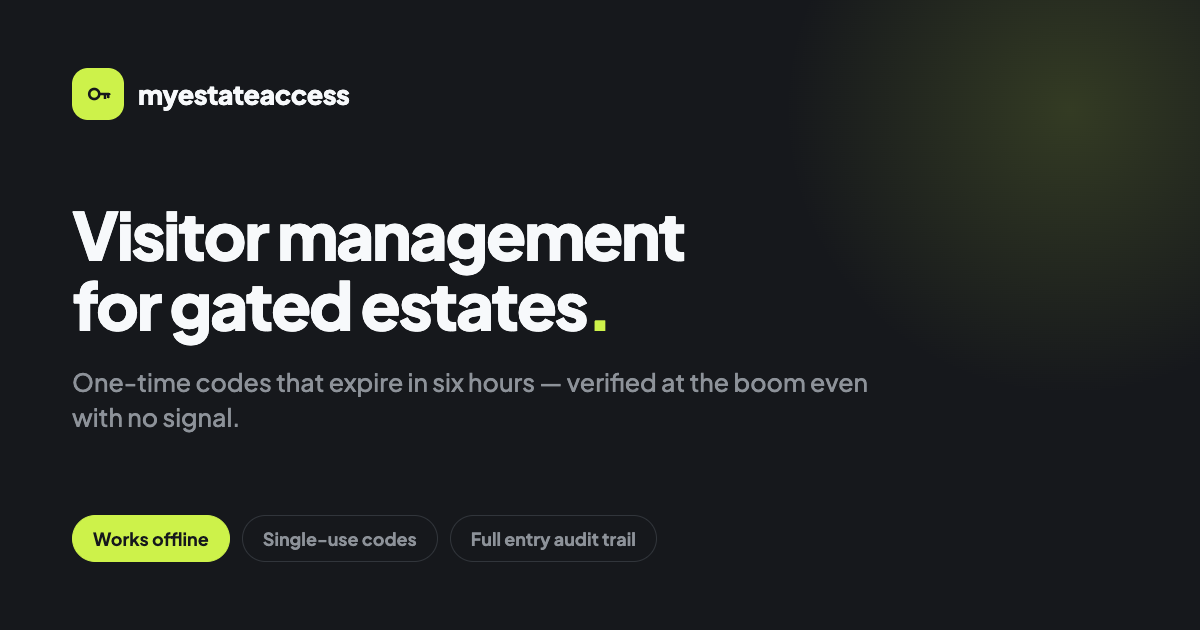
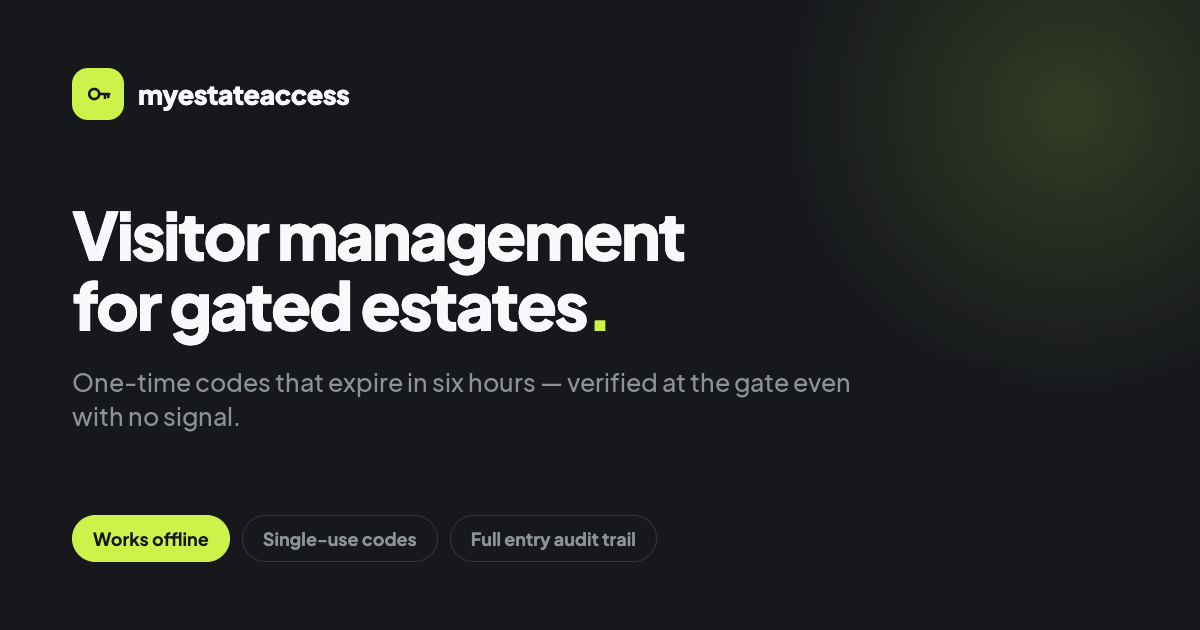
fix: the site says it is built for Nigerian estates, not South African
The marketing copy, structured data and llms.txt named South Africa:
the hero eyebrow, meta and og descriptions, areaServed, ZAR pricing and
the footer on every page. They now say Nigeria (NGN, en-NG), and the
South African 'boom' is the gate throughout, including the share image.
HOA committees and managing agents become residents' association excos
and facility managers. The privacy policy's legal basis (POPIA, the
Information Regulator, PSIRA) is unchanged: that needs a legal decision.

Changed region(s): [[0.0617, 0.6032, 0.4317, 0.6937], [0.4933, 0.6032, 0.74, 0.6333]]

diff --git a/apps/site/index.html b/apps/site/index.html
@@ -1,21 +1,21 @@
 <!doctype html>
-<html lang="en-ZA">
+<html lang="en-NG">
 <head>
 <meta charset="utf-8">
 <meta name="viewport" content="width=device-width, initial-scale=1">
 
 <title>Visitor Management System for Gated Estates | myestateaccess</title>
-<meta name="description" content="Visitor management for gated estates in South Africa. Residents issue one-time codes that expire in six hours; guards verify them at the boom, offline.">
+<meta name="description" content="Visitor management for gated estates in Nigeria. Residents issue one-time codes that expire in six hours; guards verify them at the gate, offline.">
 <link rel="canonical" href="https://myestateaccess.com/">
 <meta name="robots" content="index, follow, max-image-preview:large, max-snippet:-1, max-video-preview:-1">
 <meta name="theme-color" content="#16181c">
 
 <meta property="og:type" content="website">
-<meta property="og:locale" content="en_ZA">
+<meta property="og:locale" content="en_NG">
   <meta property="og:site_name" content="myestateaccess">
 <meta property="og:url" content="https://myestateaccess.com/">
 <meta property="og:title" content="Visitor Management System for Gated Estates | myestateaccess">
-<meta property="og:description" content="One-time visitor codes that expire in six hours and work at the gate even when the network does not. Built for residential estates, complexes and gated communities.">
+<meta property="og:description" content="One-time visitor codes that expire in six hours and work at the gate even when the network does not. Built for residential estates and gated communities across Nigeria.">
 <meta property="og:image" content="https://myestateaccess.com/og.png">
 <meta property="og:image:alt" content="myestateaccess — visitor management for gated estates, with one-time codes that expire in six hours.">
   <meta property="og:image:type" content="image/png">
@@ -61,7 +61,7 @@
         "name": "myestateaccess",
         "url": "https://myestateaccess.com/",
         "logo": "https://myestateaccess.com/favicon.svg",
-        "description": "Visitor management software for gated and security estates in South Africa.",
+        "description": "Visitor management software for gated residential estates in Nigeria.",
         "contactPoint": {
           "@type": "ContactPoint",
           "contactType": "sales",
@@ -70,9 +70,9 @@
         },
         "areaServed": {
           "@type": "Country",
-          "name": "South Africa"
+          "name": "Nigeria"
         },
-        "knowsLanguage": "en-ZA"
+        "knowsLanguage": "en-NG"
       },
       {
         "@type": "WebSite",
@@ -83,7 +83,7 @@
         "publisher": {
           "@id": "https://myestateaccess.com/#org"
         },
-        "inLanguage": "en-ZA"
+        "inLanguage": "en-NG"
       },
       {
         "@type": "SoftwareApplication",
@@ -111,7 +111,7 @@
         ],
         "offers": {
           "@type": "Offer",
-          "priceCurrency": "ZAR",
+          "priceCurrency": "NGN",
           "availability": "https://schema.org/InStock",
           "url": "https://myestateaccess.com/contact",
           "description": "Priced per home, scaled to the size of the estate. Quoted after a demo."
@@ -119,7 +119,7 @@
         "isPartOf": {
           "@id": "https://myestateaccess.com/#website"
         },
-        "inLanguage": "en-ZA"
+        "inLanguage": "en-NG"
       },
       {
         "@type": "FAQPage",
@@ -215,9 +215,9 @@
   <section class="hero">
     <div class="wrap hero-grid">
       <div>
-        <p class="eyebrow">Visitor management for gated estates in South Africa</p>
+        <p class="eyebrow">Visitor management for gated estates in Nigeria</p>
         <h1>The gate book, replaced by a code that expires.</h1>
-        <p class="lede">Residents generate a one-time code and forward it to their visitor. The guard verifies it at the boom in seconds — even with no signal. Every entry is recorded, so the estate finally has an access trail worth reading.</p>
+        <p class="lede">Residents generate a one-time code and forward it to their visitor. The guard verifies it at the gate in seconds — even with no signal. Every entry is recorded, so the estate finally has an access trail worth reading.</p>
         <div class="btn-row">
           <a class="btn btn-primary" href="/contact#demo">Book a demo</a>
           <a class="btn btn-ghost" href="#how">See how it works</a>
@@ -246,7 +246,7 @@
                      https://images.unsplash.com/photo-1775112077888-8fa36e9bbc51?auto=format&fit=crop&w=1600&q=70 1600w"
              sizes="(max-width: 940px) 100vw, 46vw"
              width="1100" height="935" fetchpriority="high"
-             alt="The entrance to a gated residential community, with a security booth beside the boom.">
+             alt="The entrance to a gated residential community, with a security booth beside the barrier.">
         <div class="badge-float">
           <span class="code">D7DH77</span>
           <span class="meta">Expires in 5h 42m · one use</span>
@@ -258,13 +258,13 @@
   <!-- ── problem ──────────────────────────────────────────────── -->
   <section class="tight">
     <div class="wrap">
-      <h2>A paper book at the boom is not access control.</h2>
+      <h2>A paper book at the gate is not access control.</h2>
       <p class="lede" style="margin-top:16px">It is a queue, an illegible name and a phone number nobody will ever call. When something goes wrong at three in the morning, the estate has a page of handwriting and no way to tell who actually came through.</p>
       <div class="grid grid-3" style="margin-top:36px">
         <div class="card">
           <div class="card-icon" aria-hidden="true">01</div>
           <h3>Nobody verifies the name</h3>
-          <p>A visitor writes anything they like. There is no link between the person at the boom and the resident they claim to be visiting.</p>
+          <p>A visitor writes anything they like. There is no link between the person at the gate and the resident they claim to be visiting.</p>
         </div>
         <div class="card">
           <div class="card-icon" aria-hidden="true">02</div>
@@ -292,7 +292,7 @@
         </div>
         <div class="step">
           <h3>The visitor arrives</h3>
-          <p>They give the code at the boom. Nothing to install, no account, no app. The code is the whole interaction.</p>
+          <p>They give the code at the gate. Nothing to install, no account, no app. The code is the whole interaction.</p>
         </div>
         <div class="step">
           <h3>The guard verifies</h3>
@@ -464,7 +464,7 @@
           </span>
           <span class="brand-word">myestateaccess</span>
         </a>
-        <p>Visitor management for gated and security estates across South Africa. One-time codes that expire, verified at the boom whether or not the network is up.</p>
+        <p>Visitor management for gated estates across Nigeria. One-time codes that expire, verified at the gate whether or not the network is up.</p>
         <div class="store-badges">
           <a class="play-badge" href="https://play.google.com/store/apps/details?id=com.myestateaccess.resident&amp;pcampaignid=pcampaignidMKT-Other-global-all-co-prtnr-py-PartBadge-Mar2515-1" target="_blank" rel="noopener">
             <img src="/play-badge.png" alt="Get it on Google Play" width="150" height="58" loading="lazy" decoding="async">

diff --git a/apps/site/contact.html b/apps/site/contact.html
@@ -1,5 +1,5 @@
 <!doctype html>
-<html lang="en-ZA">
+<html lang="en-NG">
 <head>
 <meta charset="utf-8">
 <meta name="viewport" content="width=device-width, initial-scale=1">
@@ -11,7 +11,7 @@
 <meta name="theme-color" content="#16181c">
 
 <meta property="og:type" content="website">
-<meta property="og:locale" content="en_ZA">
+<meta property="og:locale" content="en_NG">
   <meta property="og:site_name" content="myestateaccess">
 <meta property="og:url" content="https://myestateaccess.com/contact">
 <meta property="og:title" content="Book a Demo — Estate Visitor Management | myestateaccess">
@@ -46,7 +46,7 @@
         "isPartOf": {
           "@id": "https://myestateaccess.com/#website"
         },
-        "inLanguage": "en-ZA"
+        "inLanguage": "en-NG"
       },
       {
         "@type": "Organization",
@@ -101,7 +101,7 @@
             "name": "Do our guards need new hardware?",
             "acceptedAnswer": {
               "@type": "Answer",
-              "text": "No. The guard app runs on an ordinary Android or iOS phone. Most estates use a single handset per shift, which suits the way a boom is actually staffed."
+              "text": "No. The guard app runs on an ordinary Android or iOS phone. Most estates use a single handset per shift, which suits the way a gate is actually staffed."
             }
           },
           {
@@ -164,12 +164,12 @@
       <div>
         <p class="eyebrow">Contact</p>
         <h1>Let's look at your gate.</h1>
-        <p class="lede">Tell us roughly how many homes you have and how the boom is staffed. A demo takes about twenty minutes: we set your estate up with a house and a guard phone, and you watch a code go out and come back in.</p>
+        <p class="lede">Tell us roughly how many homes you have and how the gate is staffed. A demo takes about twenty minutes: we set your estate up with a house and a guard phone, and you watch a code go out and come back in.</p>
 
         <div class="grid" style="margin-top:34px;gap:14px">
           <div class="card" style="padding:22px">
             <h2 class="h-sm" style="margin-bottom:6px">Sales and demos</h2>
-            <p style="margin-bottom:10px">For estates, managing agents and HOA committees.</p>
+            <p style="margin-bottom:10px">For estates, facility managers and residents' association excos.</p>
             <a class="btn btn-ghost" style="height:42px;padding:0 18px;font-size:14px" href="mailto:hello@myestateaccess.com?subject=Estate%20Access%20demo">hello@myestateaccess.com</a>
           </div>
           <div class="card" style="padding:22px">
@@ -217,7 +217,7 @@
           </div>
           <div class="field">
             <label for="message">What would you like to know? *</label>
-            <textarea id="message" name="message" required placeholder="How the boom is staffed, whether you have signal at the gate, anything you are unsure about."></textarea>
+            <textarea id="message" name="message" required placeholder="How the gate is staffed, whether you have signal there, anything you are unsure about."></textarea>
           </div>
 
           <p class="notice" id="form-note">
@@ -243,7 +243,7 @@
         </details>
         <details>
           <summary>Do our guards need new hardware?</summary>
-          <p>No. The guard app runs on an ordinary Android or iOS phone. Most estates use a single handset per shift, which suits the way a boom is actually staffed.</p>
+          <p>No. The guard app runs on an ordinary Android or iOS phone. Most estates use a single handset per shift, which suits the way a gate is actually staffed.</p>
         </details>
         <details>
           <summary>What does it cost?</summary>
@@ -260,7 +260,7 @@
   <section>
     <div class="wrap">
       <div class="cta">
-        <h2>Twenty minutes, at your boom.</h2>
+        <h2>Twenty minutes, at your gate.</h2>
         <p class="lede" style="max-width:52ch">We would rather show you a code being refused than talk you through a slide.</p>
         <div class="btn-row">
           <a class="btn btn-primary" href="mailto:hello@myestateaccess.com?subject=Estate%20Access%20demo">Email us directly</a>
@@ -325,7 +325,7 @@
           </span>
           <span class="brand-word">myestateaccess</span>
         </a>
-        <p>Visitor management for gated and security estates across South Africa. One-time codes that expire, verified at the boom whether or not the network is up.</p>
+        <p>Visitor management for gated estates across Nigeria. One-time codes that expire, verified at the gate whether or not the network is up.</p>
         <div class="store-badges">
           <a class="play-badge" href="https://play.google.com/store/apps/details?id=com.myestateaccess.resident&amp;pcampaignid=pcampaignidMKT-Other-global-all-co-prtnr-py-PartBadge-Mar2515-1" target="_blank" rel="noopener">
             <img src="/play-badge.png" alt="Get it on Google Play" width="150" height="58" loading="lazy" decoding="async">

diff --git a/apps/site/privacy.html b/apps/site/privacy.html
@@ -1,5 +1,5 @@
 <!doctype html>
-<html lang="en-ZA">
+<html lang="en-NG">
 <head>
 <meta charset="utf-8">
 <meta name="viewport" content="width=device-width, initial-scale=1">
@@ -11,7 +11,7 @@
 <meta name="theme-color" content="#16181c">
 
 <meta property="og:type" content="article">
-<meta property="og:locale" content="en_ZA">
+<meta property="og:locale" content="en_NG">
   <meta property="og:site_name" content="myestateaccess">
 <meta property="og:url" content="https://myestateaccess.com/privacy">
 <meta property="og:title" content="Privacy Policy | myestateaccess">
@@ -51,7 +51,7 @@
         "isPartOf": {
           "@id": "https://myestateaccess.com/#website"
         },
-        "inLanguage": "en-ZA"
+        "inLanguage": "en-NG"
       },
       {
         "@type": "BreadcrumbList",
@@ -144,7 +144,7 @@
 
         <h2 id="who">Who is responsible for your data</h2>
         <p>Two different relationships sit behind this platform, and which one applies changes who you should approach about your data.</p>
-        <p><strong>For an estate's own records</strong> — its residents, houses, guards, codes and gate log — the <strong>estate is the responsible party</strong> under the Protection of Personal Information Act 4 of 2013 (POPIA). The estate decides who lives there, who may be approved, and who guards the boom. We act as its <strong>operator</strong>: we hold and process that information on the estate's instructions and for no purpose of our own. If you are a resident or a guard, your first port of call is your estate's management.</p>
+        <p><strong>For an estate's own records</strong> — its residents, houses, guards, codes and gate log — the <strong>estate is the responsible party</strong> under the Protection of Personal Information Act 4 of 2013 (POPIA). The estate decides who lives there, who may be approved, and who guards the gate. We act as its <strong>operator</strong>: we hold and process that information on the estate's instructions and for no purpose of our own. If you are a resident or a guard, your first port of call is your estate's management.</p>
         <p><strong>For our own dealings with you</strong> — a demo request, a support email, an account you open with us directly — <strong>we are the responsible party</strong>, and this policy is the whole of it.</p>
         <p>Our details, and those of our Information Officer, are in <a href="#contact">section 15</a>.</p>
 
@@ -201,7 +201,7 @@
         </ul>
 
         <h2 id="visibility">Who can see what</h2>
-        <p>The most common question residents ask is what the guard at the boom can see about them. The answer is deliberately very little.</p>
+        <p>The most common question residents ask is what the guard at the gate can see about them. The answer is deliberately very little.</p>
         <div class="callout">A guard sees a code and whether it is valid. Your name and house number are not shown to a guard until you issue a code — and after that code is used or expires, that view goes with it.</div>
         <p>More completely:</p>
         <ul>
@@ -356,7 +356,7 @@
           </span>
           <span class="brand-word">myestateaccess</span>
         </a>
-        <p>Visitor management for gated and security estates across South Africa. One-time codes that expire, verified at the boom whether or not the network is up.</p>
+        <p>Visitor management for gated estates across Nigeria. One-time codes that expire, verified at the gate whether or not the network is up.</p>
         <div class="store-badges">
           <a class="play-badge" href="https://play.google.com/store/apps/details?id=com.myestateaccess.resident&amp;pcampaignid=pcampaignidMKT-Other-global-all-co-prtnr-py-PartBadge-Mar2515-1" target="_blank" rel="noopener">
             <img src="/play-badge.png" alt="Get it on Google Play" width="150" height="58" loading="lazy" decoding="async">

diff --git a/apps/site/about.html b/apps/site/about.html
@@ -1,5 +1,5 @@
 <!doctype html>
-<html lang="en-ZA">
+<html lang="en-NG">
 <head>
 <meta charset="utf-8">
 <meta name="viewport" content="width=device-width, initial-scale=1">
@@ -11,7 +11,7 @@
 <meta name="theme-color" content="#16181c">
 
 <meta property="og:type" content="article">
-<meta property="og:locale" content="en_ZA">
+<meta property="og:locale" content="en_NG">
   <meta property="og:site_name" content="myestateaccess">
 <meta property="og:url" content="https://myestateaccess.com/about">
 <meta property="og:title" content="Why We Rebuilt the Estate Gate Register | myestateaccess">
@@ -54,7 +54,7 @@
         "isPartOf": {
           "@id": "https://myestateaccess.com/#website"
         },
-        "inLanguage": "en-ZA"
+        "inLanguage": "en-NG"
       },
       {
         "@type": "BreadcrumbList",
@@ -123,7 +123,7 @@
              srcset="https://images.unsplash.com/photo-1751730618832-08bc4b3d27d4?auto=format&fit=crop&w=700&q=70 700w,
                      https://images.unsplash.com/photo-1751730618832-08bc4b3d27d4?auto=format&fit=crop&w=1100&q=70 1100w"
              sizes="(max-width: 940px) 100vw, 46vw" width="1100" height="935" fetchpriority="high"
-             alt="An aerial view of a leafy Johannesburg suburb, walled properties set among the trees.">
+             alt="An aerial view of a leafy suburb, walled properties set among the trees.">
       </figure>
     </div>
   </section>
@@ -180,7 +180,7 @@
       <div>
         <p class="eyebrow">Who it is for</p>
         <h2>Estates that outgrew the register but do not want a turnstile.</h2>
-        <p class="lede" style="margin-top:16px">Residential estates, security complexes, cluster developments and gated communities — anywhere with a manned boom, a few hundred homes, and a book that nobody reads.</p>
+        <p class="lede" style="margin-top:16px">Residential estates, gated communities, serviced terraces and private developments — anywhere with a manned gate, a few hundred homes, and a visitor book that nobody reads.</p>
         <p style="margin-top:18px;color:var(--muted)">We are deliberately not building number-plate recognition, biometrics or turnstiles. Those are expensive, they fail in ways a guard cannot work around, and they solve a problem most estates do not have. A code you can read down a phone line covers the overwhelming majority of visits.</p>
       </div>
       <img src="https://images.unsplash.com/photo-1762474293029-6a7f3698312c?auto=format&fit=crop&w=900&q=70"
@@ -216,7 +216,7 @@
           </span>
           <span class="brand-word">myestateaccess</span>
         </a>
-        <p>Visitor management for gated and security estates across South Africa. One-time codes that expire, verified at the boom whether or not the network is up.</p>
+        <p>Visitor management for gated estates across Nigeria. One-time codes that expire, verified at the gate whether or not the network is up.</p>
         <div class="store-badges">
           <a class="play-badge" href="https://play.google.com/store/apps/details?id=com.myestateaccess.resident&amp;pcampaignid=pcampaignidMKT-Other-global-all-co-prtnr-py-PartBadge-Mar2515-1" target="_blank" rel="noopener">
             <img src="/play-badge.png" alt="Get it on Google Play" width="150" height="58" loading="lazy" decoding="async">

diff --git a/apps/site/404.html b/apps/site/404.html
@@ -1,5 +1,5 @@
 <!doctype html>
-<html lang="en-ZA">
+<html lang="en-NG">
 <head>
 <meta charset="utf-8">
 <meta name="viewport" content="width=device-width, initial-scale=1">
@@ -64,7 +64,7 @@
       <div class="grid" style="margin-top:34px;gap:14px">
         <div class="card" style="padding:22px">
           <h2 class="h-sm" style="margin-bottom:6px">Looking at the product</h2>
-          <p style="margin-bottom:10px">How a visitor code goes from a resident's phone to the guard at the boom, and what happens when the gate has no signal.</p>
+          <p style="margin-bottom:10px">How a visitor code goes from a resident's phone to the guard at the gate, and what happens when there is no signal.</p>
           <a href="/">Visitor management for gated estates</a>
         </div>
         <div class="card" style="padding:22px">
@@ -92,7 +92,7 @@
           </span>
           <span class="brand-word">myestateaccess</span>
         </a>
-        <p>Visitor management for gated and security estates across South Africa. One-time codes that expire, verified at the boom whether or not the network is up.</p>
+        <p>Visitor management for gated estates across Nigeria. One-time codes that expire, verified at the gate whether or not the network is up.</p>
         <div class="store-badges">
           <a class="play-badge" href="https://play.google.com/store/apps/details?id=com.myestateaccess.resident&amp;pcampaignid=pcampaignidMKT-Other-global-all-co-prtnr-py-PartBadge-Mar2515-1" target="_blank" rel="noopener">
             <img src="/play-badge.png" alt="Get it on Google Play" width="150" height="58" loading="lazy" decoding="async">

diff --git a/apps/site/delete-account.html b/apps/site/delete-account.html
@@ -1,5 +1,5 @@
 <!doctype html>
-<html lang="en-ZA">
+<html lang="en-NG">
 <head>
 <meta charset="utf-8">
 <meta name="viewport" content="width=device-width, initial-scale=1">
@@ -11,7 +11,7 @@
 <meta name="theme-color" content="#16181c">
 
 <meta property="og:type" content="website">
-<meta property="og:locale" content="en_ZA">
+<meta property="og:locale" content="en_NG">
 <meta property="og:site_name" content="myestateaccess">
 <meta property="og:url" content="https://myestateaccess.com/delete-account">
 <meta property="og:title" content="Delete Your Account | myestateaccess">
@@ -51,7 +51,7 @@
         "isPartOf": {
           "@id": "https://myestateaccess.com/#website"
         },
-        "inLanguage": "en-ZA"
+        "inLanguage": "en-NG"
       },
       {
         "@type": "BreadcrumbList",
@@ -209,7 +209,7 @@
           </span>
           <span class="brand-word">myestateaccess</span>
         </a>
-        <p>Visitor management for gated and security estates across South Africa. One-time codes that expire, verified at the boom whether or not the network is up.</p>
+        <p>Visitor management for gated estates across Nigeria. One-time codes that expire, verified at the gate whether or not the network is up.</p>
         <div class="store-badges">
           <a class="play-badge" href="https://play.google.com/store/apps/details?id=com.myestateaccess.resident&amp;pcampaignid=pcampaignidMKT-Other-global-all-co-prtnr-py-PartBadge-Mar2515-1" target="_blank" rel="noopener">
             <img src="/play-badge.png" alt="Get it on Google Play" width="150" height="58" loading="lazy" decoding="async">

diff --git a/apps/site/dues/pay.html b/apps/site/dues/pay.html
@@ -1,5 +1,5 @@
 <!doctype html>
-<html lang="en-ZA">
+<html lang="en-NG">
 <head>
 <meta charset="utf-8">
 <meta name="viewport" content="width=device-width, initial-scale=1">

diff --git a/apps/site/dues/return.html b/apps/site/dues/return.html
@@ -1,5 +1,5 @@
 <!doctype html>
-<html lang="en-ZA">
+<html lang="en-NG">
 <head>
 <meta charset="utf-8">
 <meta name="viewport" content="width=device-width, initial-scale=1">
